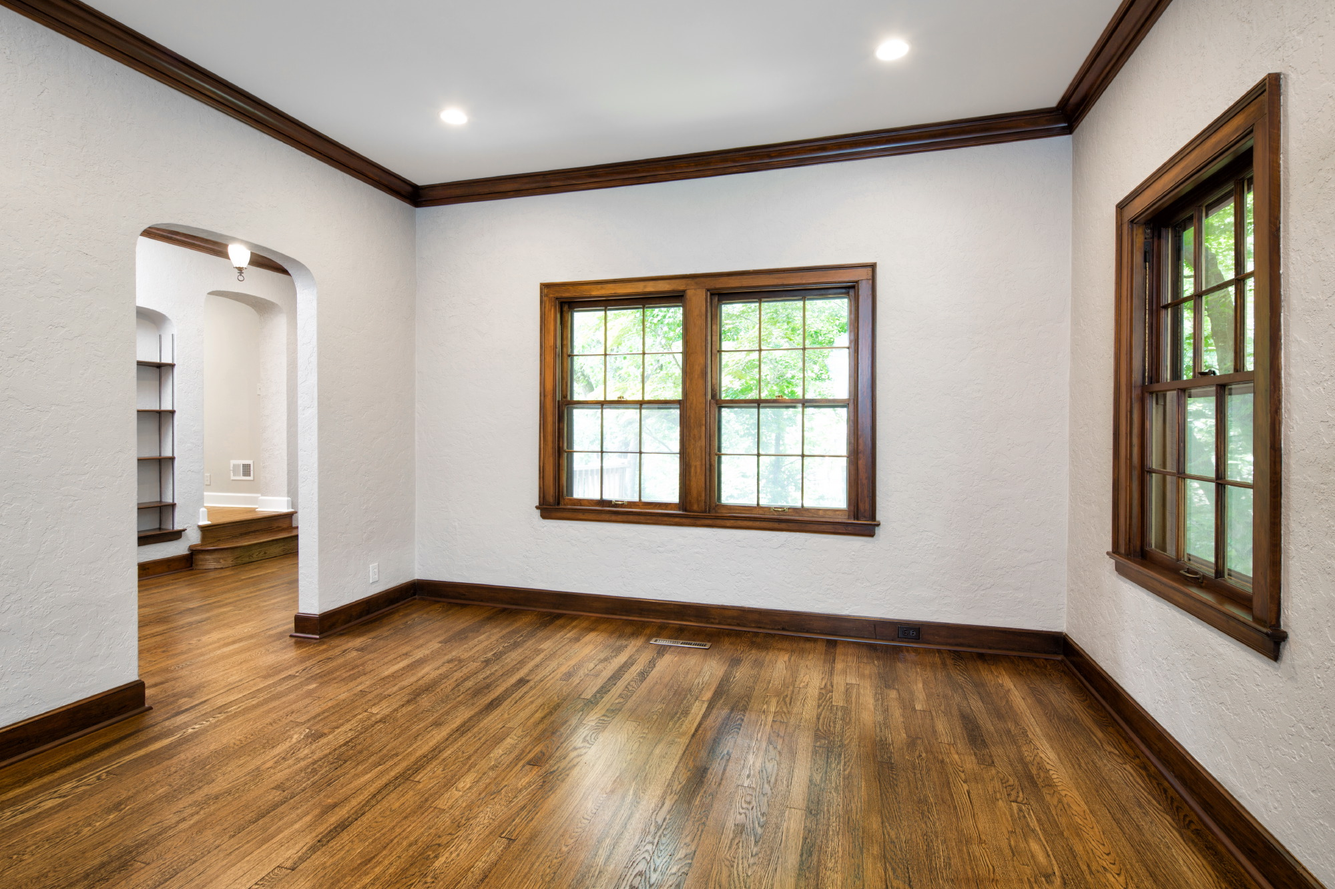
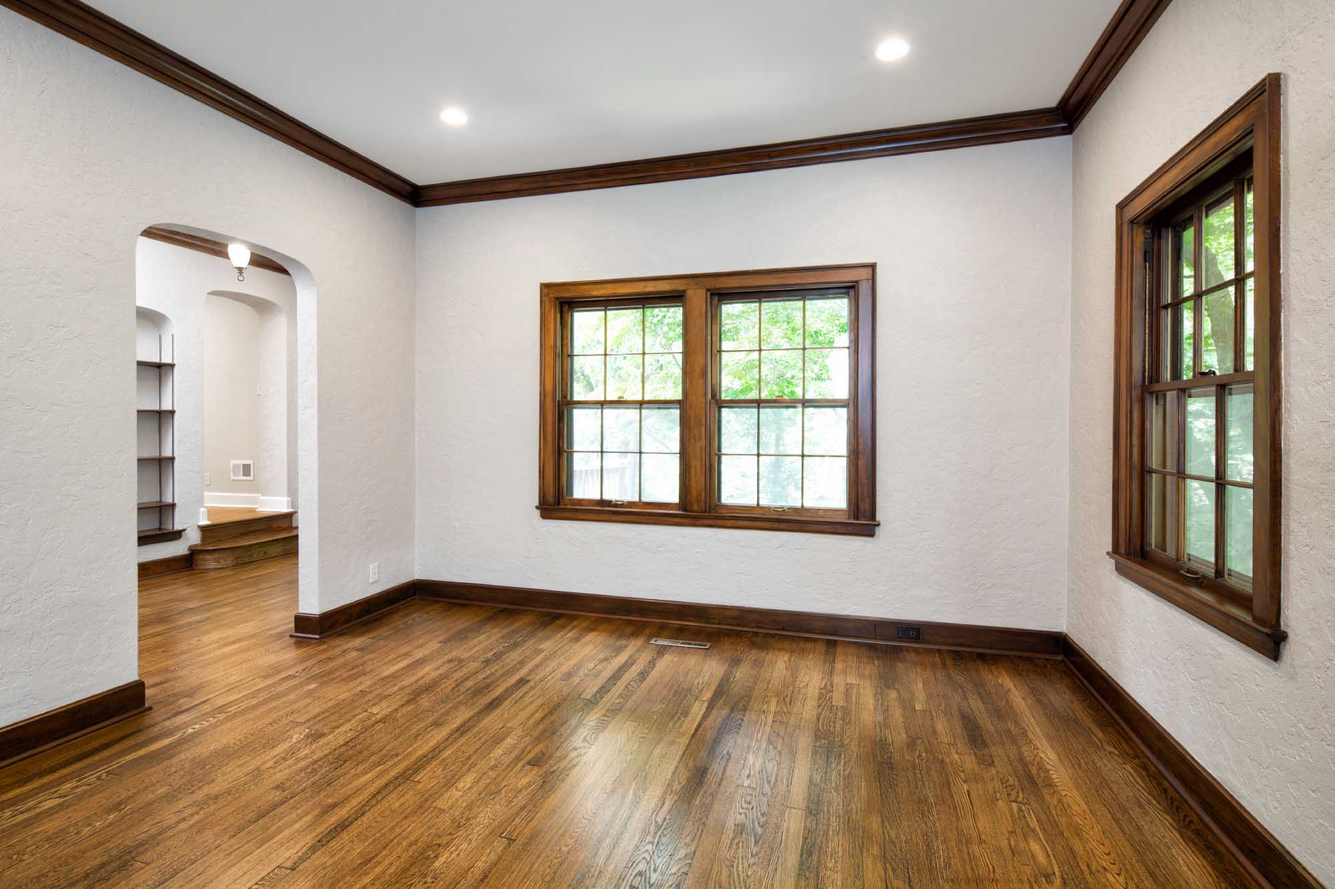
Resized all portfolio pictures

Changed region(s): [[0.558, 0.3383, 0.62, 0.4306], [0.465, 0.3383, 0.496, 0.3691]]

diff --git a/src/_styles/shared/layout.less b/src/_styles/shared/layout.less
@@ -32,41 +32,6 @@ main {
   }
 }
 
-.action-button {
-  display: block;
-  text-align: center;
-  font-family: @base-font-family;
-  background-color: @blue-primary;
-  color: @white;
-  font-size: 1.1rem;
-  line-height: 1.5;
-  font-weight: 500;
-  width: 100%;
-  box-shadow: 0 2px 2px 0 rgba(0, 0, 0, 0.2), 0 6px 10px 0 rgba(0, 0, 0, 0.3);
-  padding: 1rem 3rem;
-  border-radius: .25rem;
-  transition: background-color 0.5s @timing-function, box-shadow 0.5s @timing-function;
-  margin: 0 auto 2rem auto;
-  cursor: pointer;
-  border: none;
-  outline: none;
-  -webkit-appearance: none;
-
-  &:hover {
-    background-color: lighten(@blue-primary, 5%);
-    box-shadow: 0 11px 7px 0 rgba(0, 0, 0, 0.19), 0 13px 25px 0 rgba(0, 0, 0, 0.3);
-    color: @white;
-  }
-
-  &:active {
-    color: @white;
-  }
-
-  @media (min-width: @tablet) {
-    max-width: 22rem;
-  }
-}
-
 .parallax {
   position: fixed; // added for pseudo-element
   height: 300%;

diff --git a/src/_styles/footer.less b/src/_styles/footer.less
@@ -7,12 +7,12 @@
   }
 
   .footer-top {
-    // background-color: #303030;
+    background-color: #303030;
     padding-top: 1rem;
-    height: 265px;
+    height: 55px;
   }
   .footer-bottom {
-    // background-color: @black;
+    background-color: #303030;
     padding-bottom: 0rem;
     padding-top: 0rem;
   }
@@ -49,7 +49,6 @@
 
 #contact-us {
   position: relative;
-  padding: 2rem 1rem;
   text-align: center;
 
   i {
@@ -75,7 +74,6 @@
   }
 
   @media (min-width: @tablet) {
-    padding: inherit;
     text-align: left;
   }
 }
@@ -131,7 +129,7 @@
 }
 
 .social-media-link {
-  background-color: @blue-focus;
+  background-color: @green-lighter;
   height: 100%;
   display: flex;
   align-items: center;
@@ -147,7 +145,7 @@
     background-color: @offBlack;
 
     i {
-      color: @blue-focus;
+      color: @green-light;
     }
   }
 }

diff --git a/src/_styles/shared/base.less b/src/_styles/shared/base.less
@@ -20,10 +20,10 @@ body {
   font-family: @base-font-family;
   line-height: @base-line-height;
   font-weight: 300;
-  color: @black;
   -webkit-text-size-adjust: 100%;
   -webkit-font-smoothing: antialiased !important;
 	-moz-osx-font-smoothing: grayscale;
+  background-color: @green-color;
 }
 
 /**
@@ -31,9 +31,6 @@ body {
  */
 img {
   height: auto;
-  max-width: 50%;
-  margin-top: -65px;
-  margin-left: -55px;
 }
 
 /**
@@ -73,11 +70,11 @@ li {
  * Links
  */
 a {
-  color: @focus-color;
+  color: @green-lightest;
   text-decoration: none;
 
   &:hover {
-    color: @blue-alt-darker;
+  //  color: @blue-alt-darker;
     text-decoration: none;
   }
 }
@@ -179,7 +176,7 @@ p, a:not(.photo), li, blockquote {
 h1, h2, h3, h4, h5, h6 {
   font-weight: 700;
   line-height: 2;
-  margin: 0 0 1em 0;
+  margin: 0;
 }
 
 h1 {

diff --git a/src/_styles/home.less b/src/_styles/home.less
@@ -98,17 +98,15 @@
 }
 
 .action-button {
-  display: block;
+  display: inline-block;
   text-align: center;
   font-family: @base-font-family;
-  background-color: @blue-primary;
+  background-color: @blue-darker;
   color: @white;
-  font-size: 1.1rem;
   line-height: 1.5;
   font-weight: 500;
-  width: 100%;
   box-shadow: 0 2px 2px 0 rgba(0, 0, 0, 0.2), 0 6px 10px 0 rgba(0, 0, 0, 0.3);
-  padding: 2rem 3rem;
+  padding: .3rem 3rem;
   border-radius: .25rem;
   transition: background-color 0.5s @timing-function, box-shadow 0.5s @timing-function;
   margin: 0 auto 2rem auto;

diff --git a/src/_styles/portfolio.less b/src/_styles/portfolio.less
@@ -5,3 +5,19 @@
     max-width: 250px;
   }
 }
+
+main.portfolio {
+  padding: 0;
+}
+
+.portfolio-header {
+  background-image: url(/images/portfolio/klapmeyer/klapmeyer_1.jpg);
+  background-size: cover;
+  background-repeat: no-repeat;
+  background-position: center bottom 40%;
+  padding: 100px 50px 50px;
+}
+
+  h1 {
+    text-shadow: 1px 1px @blue-darker, 1px -1px @blue-darker, -1px -1px @blue-darker, -1px 1px @blue-darker;
+  }

diff --git a/src/_styles/header.less b/src/_styles/header.less
@@ -81,7 +81,7 @@
       text-decoration: none;
 
       &::after{
-        border-bottom: 2px solid @red-color;
+        border-bottom: 2px solid @green-light;
       }
     }
 
